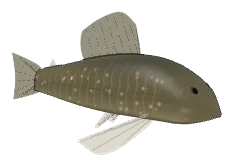
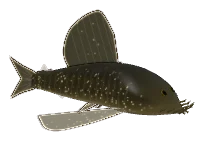
BP1: bristlenose rebuilt: broad flat head, eyes on top, tentacles, sail dorsal, wide horizontal pectorals, forked tail, pale fin margins and spots, dark olive-brown body with fine spots; gallery still re-baked, volume record updated

diff --git a/src/art/fishgen.ts b/src/art/fishgen.ts
@@ -64,8 +64,8 @@ export interface Plan {
   analSplit?: number;
   // ext: the leading ray runs on past the membrane by this much (widths); w: membrane width x the default
   // flat (3D, pelvic and pec, off by default): the fins held out flat to the sides all the time, as on the glass (hillstream loach)
-  pelvic?: { u: number; len: number; tint?: string; thread?: boolean; angle?: number; ext?: number; w?: number; flat?: boolean }; // angle: degrees below horizontal (thread)
-  pec?: { s?: number; v?: number; u?: number; flat?: boolean; w?: number; tint?: string }; // pectoral: size x the default, root height (0 top .. 1 belly, default 0.62), root u (default behind the gill), w: fan width x the default, tint: own colour (default: fin mixed with the flank)
+  pelvic?: { u: number; len: number; tint?: string; thread?: boolean; angle?: number; ext?: number; w?: number; flat?: boolean; spread?: number; edge?: string; spots?: string }; // angle: degrees below horizontal (thread)
+  pec?: { s?: number; v?: number; u?: number; flat?: boolean; w?: number; tint?: string; spread?: number; edge?: string; spots?: string }; // pectoral: size x the default, root height (0 top .. 1 belly, default 0.62), root u (default behind the gill), w: fan width x the default, tint: own colour (default: fin mixed with the flank)
   fin: string;        // default membrane tint
   ray?: string;
   marks?: Mark[];     // painted inside the body
@@ -76,6 +76,8 @@ export interface Plan {
   barbels?: number;   // barbel length (widths); bottom fish
   barbelR?: number;   // 3D: barbel root radius (widths, default 0.004); fine cylindrical barbels on slim fish (kuhli)
   bristles?: boolean; // bristlenose snout
+  headW?: number;     // 3D: the head (from the gill cover forward) this much wider than the trunk tapering to the tail (pleco: broad flat head)
+  keel?: string;      // 3D: a raised row of bony scutes along each flank in this colour (armoured catfish)
   rim?: number;
   thick?: number;     // 3D: max body thickness / max body depth (laterally compressed < 0.5 < rounder)
   sectionExp?: number; // 3D: cross-section exponent (2 = elliptical; >2 = boxier); default 2.4
@@ -294,22 +296,30 @@ function paintMarks(c: Ctx, P: Proj, W: number, marks: Mark[] | undefined, seed:
 }
 
 const mixHex = (a: string, b: string, k: number) => '#' + [1, 3, 5].map(i => Math.round(parseInt(a.slice(i, i + 2), 16) * (1 - k) + parseInt(b.slice(i, i + 2), 16) * k).toString(16).padStart(2, '0')).join('');
-export interface PairedFin { kind: 'pelvic' | 'pectoral'; pts: Pt[]; root: [number, number]; tint: string; a?: number; rays: number }
+export interface PairedFin { kind: 'pelvic' | 'pectoral'; pts: Pt[]; root: [number, number]; tint: string; a?: number; rays: number; edge?: string; spots?: string; spread?: number }
 /** The paired fins (pelvic if the plan has one, then the pectoral), in card coordinates. */
 export function pairedFins(p: Plan): PairedFin[] {
   const g = geometry(p), out: PairedFin[] = [];
-  if (g.pelvic) out.push({ kind: 'pelvic', pts: g.pelvic, root: [p.pelvic!.u, g.prof(p.pelvic!.u)[1]], tint: p.pelvic!.tint ?? p.fin, a: p.pelvic!.thread ? 0.85 : undefined, rays: p.pelvic!.thread ? 0 : 5 });
+  if (g.pelvic) out.push({ kind: 'pelvic', pts: g.pelvic, root: [p.pelvic!.u, g.prof(p.pelvic!.u)[1]], tint: p.pelvic!.tint ?? p.fin, a: p.pelvic!.thread || p.pelvic!.edge ? 0.85 : undefined, rays: p.pelvic!.thread ? 0 : 5, edge: p.pelvic!.edge, spots: p.pelvic!.spots, spread: p.pelvic!.spread });
   if (p.pectoral === false) return out;
   const pu = p.pec?.u ?? 1 - (1 - p.pedU) * 0.24, [pt, pb] = g.prof(pu), pm = pt + (pb - pt) * (p.pec?.v ?? 0.62), pl = Math.min((1 - p.pedU) * 0.17, p.depth * 0.75) * (p.pec?.s ?? 1); // slender fish (loaches) keep small pectorals
   // w (off by default): a broad fan, the trailing edge this many times deeper (hillstream loach)
   const w = p.pec?.w ?? 1, pts: Pt[] = w === 1 ? [[pu, pm - 0.01], [pu - pl, pm + pl * 0.3, 'c'], [pu - pl * 0.7, pm + pl * 0.55], [pu + 0.005, pm + 0.015]]
     : [[pu, pm - 0.01], [pu - pl, pm + pl * 0.3, 'c'], [pu - pl * 0.8, pm + pl * (0.3 + 0.25 * w)], [pu - pl * 0.4, pm + pl * 0.3 * w], [pu + 0.005, pm + 0.015 * w]];
-  out.push({ kind: 'pectoral', pts, root: [pu, pm], tint: p.pec?.tint ?? mixHex(p.fin, p.shade[1], 0.35), a: p.pec?.tint ? 0.8 : 0.45, rays: 5 }); // pectoral takes on some flank colour: it lies against the body
+  out.push({ kind: 'pectoral', pts, root: [pu, pm], tint: p.pec?.tint ?? mixHex(p.fin, p.shade[1], 0.35), a: p.pec?.tint ? 0.8 : 0.45, rays: 5, edge: p.pec?.edge, spots: p.pec?.spots, spread: p.pec?.spread }); // pectoral takes on some flank colour: it lies against the body
   return out;
 }
 export function drawPairedFin(f: PairedFin, ctx: Ctx, P: Proj, W: number, ray = '#7d7a70') {
-  fin(ctx, P, W, f.pts, f.root, f.tint, ray, { a: f.a, rays: f.rays });
-  if (f.kind === 'pectoral' && f.a !== undefined) return; // the card's faint fan over the flank gets no spine
+  const extra = f.spots ? (c: Ctx) => { // pale dots in rows along the rays
+    const r = rng(f.kind === 'pectoral' ? 31 : 32), [rx, ry] = P(f.root[0], f.root[1]); c.fillStyle = hexA(f.spots!, 0.55);
+    for (let i = 0; i < 70; i++) {
+      const t = r() * (f.pts.length - 1), k = Math.min(f.pts.length - 2, Math.floor(t)), q = t - k, a = f.pts[k], b = f.pts[k + 1], [ex, ey] = P(a[0] + (b[0] - a[0]) * q, a[1] + (b[1] - a[1]) * q), d = 0.25 + r() * 0.75;
+      c.beginPath(); c.arc(rx + (ex - rx) * d, ry + (ey - ry) * d, 0.0032 * W * (0.7 + r() * 0.6), 0, Math.PI * 2); c.fill();
+    }
+  } : undefined;
+  fin(ctx, P, W, f.pts, f.root, f.tint, ray, { a: f.a, rays: f.rays, extra });
+  if (f.edge) { ctx.save(); shape(ctx, P, f.pts); ctx.strokeStyle = hexA(f.edge, 0.7); ctx.lineWidth = 0.007 * W; ctx.stroke(); ctx.restore(); }
+  if (f.kind === 'pectoral' && f.a !== undefined && !f.edge) return; // the card's faint fan over the flank gets no spine
   // leading spine / first ray: the stiff front edge that gives a fin its structure
   const tip = f.pts.find(q => q[2] === 'c') ?? f.pts[1], [x0, y0] = P(f.root[0], f.root[1]), [x1, y1] = P(tip[0], tip[1]);
   ctx.beginPath(); ctx.moveTo(x0, y0); ctx.lineTo(x1, y1); ctx.strokeStyle = hexA(ray, f.kind === 'pectoral' ? 0.45 : 0.75); ctx.lineWidth = 0.006 * W; ctx.stroke();
@@ -778,10 +788,10 @@ export const PLANS: Record<string, Plan> = {
     dorsal: { at: 0.68, len: 0.13, h: 0.17, spines: 0.12, nSp: 1, spineH: 0.2, rake: 0.1, drop: 0.3, tint: '#2a2a2a', a: 0.85 }, anal: { u0: 0.32, u1: 0.4, h: 0.06 }, adipose: true, pelvic: { u: 0.55, len: 0.09, w: 1.3 },
     marks: [{ k: 'blob', u: 0.62, v: 0.02, ru: 0.3, rv: 0.1, c: '#f0b890', a: 0.35 }, { k: 'bars', us: [0.885], w: 0.06, c: '#1c1c1c', a: 0.95 }, { k: 'blob', u: 0.24, v: -0.02, ru: 0.06, rv: 0.06, c: '#1c1c1c', a: 0.9 }], barbels: 0.03,
     eye: { r: 0.032, iris: ['#4a4040', '#0c0a0a'], dv: -0.05 } },
-  bristlenose: { pec: { s: 2.1, v: 0.85 }, plates: true, thick: 1.3, belly: 1, wide: 0.6, noseW: 0.9, depth: 0.23, pedU: 0.16, ped: 0.05, peak: 0.6, back: 0.72, snout: 0.6, mouth: 0.05, shade: ['#3a3a30', '#5a5444', '#8a826a'], tail: { type: 'notch', h: 0.11, tint: '#4a4638', a: 0.85 }, fin: '#4a4638',
-    dorsal: { at: 0.66, len: 0.26, h: 0.17, spines: 0.1, nSp: 1, spineH: 0.19, rake: 0.25, drop: 0.7, a: 0.85 }, anal: { u0: 0.3, u1: 0.36, h: 0.04 }, adipose: true, pelvic: { u: 0.58, len: 0.15, w: 1.4 },
-    marks: [{ k: 'spots', n: 70, u0: 0.16, u1: 0.95, v0: -0.18, v1: 0.05, r: 0.008, c: '#c8c0a0', a: 0.6 }],
-    finMarks: [{ k: 'spots', n: 40, u0: 0, u1: 0.7, v0: -0.4, v1: 0.2, r: 0.008, c: '#c8c0a0', a: 0.5 }], bristles: true, eye: { r: 0.022, iris: ['#6a6040', '#1a1610'], dv: -0.12, up: 0.7 } },
+  bristlenose: { pec: { s: 2.7, v: 0.86, w: 1.5, flat: true, spread: 1.3, edge: '#d4cdae', spots: '#cfc7a4', tint: '#3a3426' }, plates: true, thick: 1.15, belly: 1, wide: 0.6, headW: 0.7, pedT: 0.3, noseW: 0.9, depth: 0.2, pedU: 0.16, ped: 0.04, peak: 0.6, back: 0.74, snout: 0.45, mouth: 0.06, keel: '#3a3424', shade: ['#16140e', '#2e2a1e', '#74694e'], tail: { type: 'fork', h: 0.115, tint: '#322d20', a: 0.9, edge: '#d4cdae' }, fin: '#322d20',
+    dorsal: { at: 0.66, len: 0.27, h: 0.25, spines: 0.1, nSp: 1, spineH: 0.22, rake: 0.3, drop: 0.55, tint: '#2e2a1e', a: 0.9, edge: '#d4cdae' }, anal: { u0: 0.3, u1: 0.36, h: 0.04 }, adipose: true, pelvic: { u: 0.58, len: 0.16, w: 1.5, spread: 0.95, edge: '#d4cdae', spots: '#cfc7a4', tint: '#322d20' },
+    marks: [{ k: 'spots', n: 260, u0: 0.16, u1: 0.97, v0: -0.2, v1: 0.07, r: 0.0042, c: '#e0d8b6', a: 0.8 }],
+    finMarks: [{ k: 'spots', n: 70, u0: 0, u1: 0.7, v0: -0.4, v1: 0.2, r: 0.005, c: '#d4cdae', a: 0.6 }], bristles: true, eye: { r: 0.02, iris: ['#9a7a3a', '#1a1208'], dv: -0.12, up: 1, bulge: 0.5 } },
   oto: { pec: { s: 1.7, v: 0.85 }, plates: true, thick: 0.95, belly: 0.8, wide: 0.4, noseW: 0.5, depth: 0.19, pedU: 0.17, ped: 0.035, peak: 0.65, back: 0.62, snout: 0.6, mouth: 0.03, shade: ['#54533f', '#9b9576', '#cdc7ad'], tail: { type: 'fork', h: 0.11 }, fin: '#c0bba4',
     dorsal: { at: 0.63, len: 0.12, h: 0.1, spines: 0.12, nSp: 1, spineH: 0.12, rake: 0.12, drop: 0.35 }, anal: { u0: 0.33, u1: 0.4, h: 0.04 }, pelvic: { u: 0.58, len: 0.07, w: 1.2 },
     marks: [{ k: 'band', u0: 0.18, u1: 0.98, v0: -0.015, v1: 0.012, c: '#2a2820', a: 0.85, f: 0.008 }], finMarks: [{ k: 'blob', u: 0.08, v: 0, ru: 0.04, rv: 0.025, c: '#2a2820', a: 0.7 }],

diff --git a/src/render/fish3d.ts b/src/render/fish3d.ts
@@ -31,6 +31,7 @@ function sections(p: Plan) {
     const [a, b] = prof(u), s = (u - p.pedU) / (1 - p.pedU), vc = (a + b) / 2, hv = Math.max(0, (b - a) / 2 - INSET);
     // thickness follows depth but stays fuller toward the head (fish are widest behind the gills)
     let t = thick * (0.35 * hv + 0.65 * maxHv * Math.sin(Math.min(1, hv / maxHv) * Math.PI / 2)) * (pedT + (1 - pedT) * Math.sqrt(s));
+    if (p.headW) t *= 1 + p.headW * smooth(0.5, 0.82, s); // a broad flat head (pleco), the trunk tapering behind it
     // armoured heads sit a step narrower than the trunk; a flat snout keeps its width to the tip (shovel)
     if (p.step) t *= 1 - p.step * smooth(gu - 0.015, gu + 0.02, u);
     if (p.noseW) {
@@ -198,6 +199,80 @@ function gapeMeshes(art: string, p: Plan, bend: number, mat: THREE.Material) {
   return out;
 }
 
+/**
+ * Bristlenose tentacles (`p.bristles`): fleshy, forked feelers along each side of the snout rim, growing forward, up and
+ * out, the longest at the tip. Tubes tapering from the surface, each with two short branches.
+ */
+function tentacleMeshes(art: string, p: Plan, bend: number, mat: THREE.Material) {
+  const out: THREE.Mesh[] = [];
+  for (const side of [1, -1]) {
+    const key = `tent:${art}:${bend}:${side}`;
+    let g = geoCache.get(key);
+    if (!g) {
+      const parts: THREE.BufferGeometry[] = [];
+      // [u on the head, section angle (pi/2 = the widest point), length, lean outward]
+      const ROOTS: [number, number, number, number][] = [[0.992, 1.95, 0.045, 0.15], [0.975, 1.78, 0.052, 0.3], [0.955, 1.7, 0.044, 0.42], [0.934, 1.68, 0.034, 0.5], [0.995, 2.4, 0.022, 0.0]];
+      ROOTS.forEach(([u, th, len, lean], i) => {
+        const r0 = pointAt(p, u, th, side, bend), n = normalAtTh(p, u, th, side, bend);
+        const dir = new THREE.Vector3(1, 0.35, side * lean).add(n.clone().multiplyScalar(0.6)).normalize();
+        const end = r0.clone().addScaledVector(dir, len), mid = r0.clone().addScaledVector(dir, len * 0.5).add(new THREE.Vector3(0, 0.006 + i * 0.001, 0));
+        parts.push(taperTube(new THREE.QuadraticBezierCurve3(r0.clone().addScaledVector(n, -0.003), mid, end), 0.0068, 8, 6));
+        for (const sgn of [-1, 1]) { // two short forks near the tip
+          const b0 = mid.clone().lerp(end, 0.55), side2 = new THREE.Vector3(0, 0.45, sgn * 0.55 * (side || 1)).normalize();
+          const bend2 = b0.clone().addScaledVector(dir, len * 0.3).addScaledVector(side2, len * 0.28);
+          parts.push(taperTube(new THREE.QuadraticBezierCurve3(b0, b0.clone().addScaledVector(dir, len * 0.18), bend2), 0.0036, 5, 5));
+        }
+      });
+      g = mergeGeoms(parts); g.userData.keep = true; geoCache.set(key, g);
+    }
+    out.push(new THREE.Mesh(g, mat));
+  }
+  return out;
+}
+/** Plain concatenation of indexed geometries sharing position / normal / uv attributes. */
+function mergeGeoms(parts: THREE.BufferGeometry[]) {
+  const pos: number[] = [], nor: number[] = [], uv: number[] = [], idx: number[] = []; let base = 0;
+  for (const g of parts) {
+    const a = g.attributes; pos.push(...a.position.array as ArrayLike<number> as number[]); nor.push(...a.normal.array as ArrayLike<number> as number[]); uv.push(...a.uv.array as ArrayLike<number> as number[]);
+    for (let i = 0; i < g.index!.count; i++) idx.push(base + g.index!.getX(i));
+    base += a.position.count; g.dispose();
+  }
+  const o = new THREE.BufferGeometry();
+  o.setAttribute('position', new THREE.Float32BufferAttribute(pos, 3)); o.setAttribute('normal', new THREE.Float32BufferAttribute(nor, 3)); o.setAttribute('uv', new THREE.Float32BufferAttribute(uv, 2)); o.setIndex(idx);
+  return o;
+}
+
+/**
+ * Armour scutes (`p.keel`): a row of small raised bony plates down each flank (the lateral keel of an armoured catfish),
+ * overlapping and pointing back, so the flank reads as plate and not a smooth tube.
+ */
+function scuteMeshes(art: string, p: Plan, bend: number, mat: THREE.Material) {
+  const out: THREE.Mesh[] = [];
+  for (const side of [1, -1]) {
+    const key = `scute:${art}:${bend}:${side}`;
+    let g = geoCache.get(key);
+    if (!g) {
+      const parts: THREE.BufferGeometry[] = [];
+      for (let i = 0; i < 17; i++) {
+        const u = p.pedU + 0.04 + (0.8 - p.pedU - 0.04) * i / 16, [t, b] = profile(p)(u);
+        for (const row of [0.4, 0.6]) {
+          const v = t + (b - t) * row, th = thetaAt(sections(p)(u), v), pt = pointAt(p, u, th, side, bend), n = normalAtTh(p, u, th, side, bend);
+          const len = 0.02 * (0.7 + 0.5 * (u - p.pedU)), up = new THREE.Vector3(0, (b - t) * 0.045, 0);
+          const a = pt.clone().addScaledVector(n, 0.0012), tip = pt.clone().addScaledVector(n, 0.0022).add(new THREE.Vector3(-len, 0, 0));
+          const tri = new THREE.BufferGeometry();
+          tri.setAttribute('position', new THREE.Float32BufferAttribute([...a.clone().add(up), ...a.clone().sub(up), ...tip], 3));
+          tri.setAttribute('normal', new THREE.Float32BufferAttribute([...n, ...n, ...n], 3)); tri.setAttribute('uv', new THREE.Float32BufferAttribute([0, 0, 0, 0, 0, 0], 2));
+          tri.setIndex(side > 0 ? [0, 1, 2] : [1, 0, 2]);
+          parts.push(tri);
+        }
+      }
+      g = mergeGeoms(parts); g.userData.keep = true; geoCache.set(key, g);
+    }
+    out.push(new THREE.Mesh(g, mat));
+  }
+  return out;
+}
+
 /** Paired-fin spread from the body (radians): pelvics hang down and out, pectorals swing out behind the gill cover. */
 /** A tube along `curve` from radius r at its start, tapering to a third at its end (limbs, tentacles). */
 export function taperTube(curve: THREE.Curve<THREE.Vector3>, r: number, N = 12, R = 5) {
@@ -325,7 +400,7 @@ function finMeshes(art: string, p: Plan, bend: number, edge: EdgeMode, cling = f
     const mat = cardMaterial(key, pairedFinTexture(art, f, box, edge), edge); mat.userData.fishCard = true; // outlined by fish stand out
     for (const side of [1, -1]) {
       // flat (plan option, off by default): held out flat like a fish on the glass all the time (hillstream loach)
-      const flat = cling || !!(f.kind === 'pelvic' ? p.pelvic?.flat : p.pec?.flat), mesh = new THREE.Mesh(g, mat), a = (flat ? SPLAY : SPREAD)[f.kind];
+      const flat = cling || !!(f.kind === 'pelvic' ? p.pelvic?.flat : p.pec?.flat), mesh = new THREE.Mesh(g, mat), a = f.spread ?? (flat ? SPLAY : SPREAD)[f.kind];
       // root slightly inside the surface so the base never shows a gap
       const s = surfaceAt(p, f.root[0], f.root[1], side, bend), z0 = bendZ(bend, s.x);
       mesh.position.set(s.x, s.y, z0 + (s.z - z0) * 0.85);
@@ -575,6 +650,14 @@ export function fishBody(art: string, aspect: number, w: number, bend: number, m
   if (p.gillLine) {
     const mat = fishMat('gill:' + art, () => new THREE.MeshBasicMaterial({ color: new THREE.Color(p.shade[0]).multiplyScalar(0.5), transparent: true, opacity: p.gillLine, depthWrite: false }));
     for (const m of gillMeshes(art, p, b, mat)) grp.add(m);
+  }
+  if (p.bristles) {
+    const mat = fishMat('tent:' + art, () => new THREE.MeshBasicMaterial({ color: new THREE.Color(p.shade[1]).lerp(new THREE.Color(p.shade[2]), 0.3).multiplyScalar(0.95) }));
+    for (const m of tentacleMeshes(art, p, b, mat)) grp.add(m);
+  }
+  if (p.keel) {
+    const mat = fishMat('scute:' + art, () => new THREE.MeshBasicMaterial({ color: new THREE.Color(p.keel), side: THREE.DoubleSide }));
+    for (const m of scuteMeshes(art, p, b, mat)) grp.add(m);
   }
   if (p.barbels) {
     const mat = fishMat('barbel:' + art, () => new THREE.MeshBasicMaterial({ color: new THREE.Color(p.shade[2]).multiplyScalar(0.85) }));

diff --git a/scripts/bp1-shots.js b/scripts/bp1-shots.js
@@ -1,0 +1,16 @@
+// Dev server only (lane BP1): bristlenose model pictures. In the console:
+// `const b = await import('/scripts/bp1-shots.js'); await b.views('before')` -> shots/bp1_<tag>_{side,top,front,three}.png
+const wait = ms => new Promise(r => setTimeout(r, ms));
+export async function views(tag, art = 'bristlenose', w = 1100, h = 700) {
+  const { SPECIES } = await import('/src/data/species.ts'), { SpeciesPreview } = await import('/src/render/preview3d.ts');
+  const sp = SPECIES.find(s => s.id === art || s.look === art), tool = new SpeciesPreview(1);
+  const V = { side: [0.0, 0.0], top: [0.0, 1.5], front: [Math.PI / 2, 0.05], three: [0.55, 0.3], low: [0.9, -0.35] };
+  tool.load(sp);
+  for (const [k, [yaw, pitch]] of Object.entries(V)) {
+    tool.yaw = yaw; tool.pitch = pitch; tool.render(w, h);
+    const blob = await new Promise(r => tool.canvas.toBlob(r, 'image/png'));
+    const c = new OffscreenCanvas(w, h), g = c.getContext('2d'); g.fillStyle = '#9fb7c4'; g.fillRect(0, 0, w, h); g.drawImage(await createImageBitmap(blob), 0, 0);
+    await fetch('/__shot?name=bp1_' + tag + '_' + k, { method: 'POST', body: await c.convertToBlob({ type: 'image/png' }) });
+  }
+  return sp.id;
+}

diff --git a/src/render/textures.ts b/src/render/textures.ts
@@ -41,7 +41,7 @@ export const pairedFinTexture = (art: string, f: PairedFin, box: { u0: number; v
     const R = 1024, c = document.createElement('canvas'); c.width = Math.ceil(box.w * R); c.height = Math.ceil(box.h * R);
     const ctx = c.getContext('2d')!; ctx.lineJoin = 'round'; ctx.lineCap = 'round';
     style.finA = edge === 'a2c' ? FIN_A2C : FIN_A;
-    drawPairedFin({ ...f, a: f.kind === 'pectoral' ? undefined : f.a }, ctx, (u, v) => [(u - box.u0) * R, (v - box.v0) * R], R);
+    drawPairedFin({ ...f, a: f.kind === 'pectoral' && !f.edge ? undefined : f.a }, ctx, (u, v) => [(u - box.u0) * R, (v - box.v0) * R], R);
     style.finA = FIN_A;
     return finish(c);
   });
